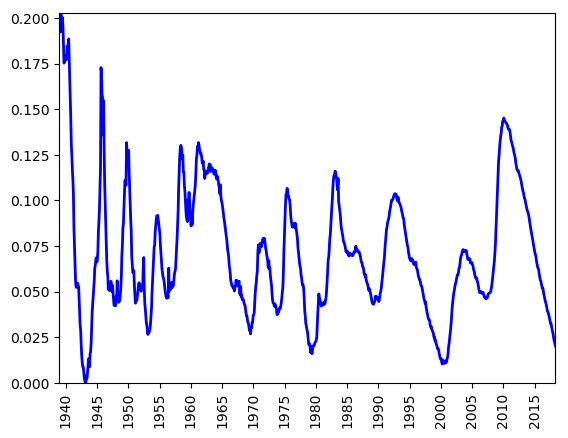
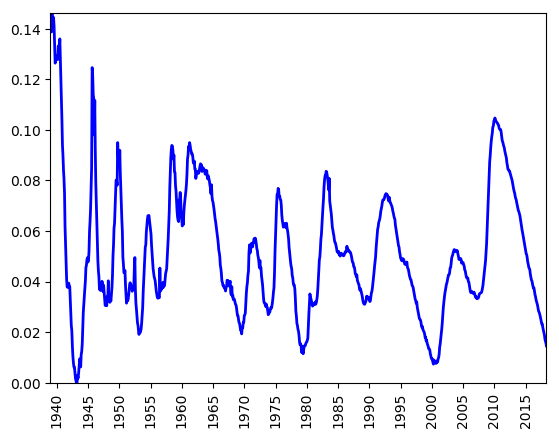
corrected calculation of shortfall

diff --git a/employment.py b/employment.py
@@ -8,7 +8,9 @@ df.columns=['DATE', 'EMPLOYEES']
 df.DATE=df.DATE.map(lambda x: x.replace('-01-01', ''))
 df.DATE=pd.to_numeric(df.DATE)
 df.EMPLOYEES=np.log(df.EMPLOYEES)
-uns=-(df.EMPLOYEES-sp.savgol_filter(df.EMPLOYEES, 59, 4))
+trend=sp.savgol_filter(df.EMPLOYEES, 59, 4)
+unsp=df.EMPLOYEES-trend
+uns=-(df.EMPLOYEES-trend)*(.5/(np.log(2)-np.log(1)))
 une=abs(uns)
 uny=(sp.savgol_filter(une, 59, 6))
 unw=uns+uny-(uns+uny).min()

diff --git a/employmonth.py b/employmonth.py
@@ -7,7 +7,9 @@ df=pd.read_csv('numbers2.csv')
 df.columns=['DATE', 'EMPLOYEES']
 df.DATE=pd.to_datetime(df.DATE)
 df.EMPLOYEES=np.log(df.EMPLOYEES)
-uns=-(df.EMPLOYEES-sp.savgol_filter(df.EMPLOYEES, 707, 4))
+trend=sp.savgol_filter(df.EMPLOYEES, 707, 4)
+unsp=df.EMPLOYEES-trend
+uns=-(df.EMPLOYEES-trend)*(.5/(np.log(2)-np.log(1)))
 une=abs(uns)
 uny=(sp.savgol_filter(une, 707, 6))
 unw=uns+uny-(uns+uny).min()
